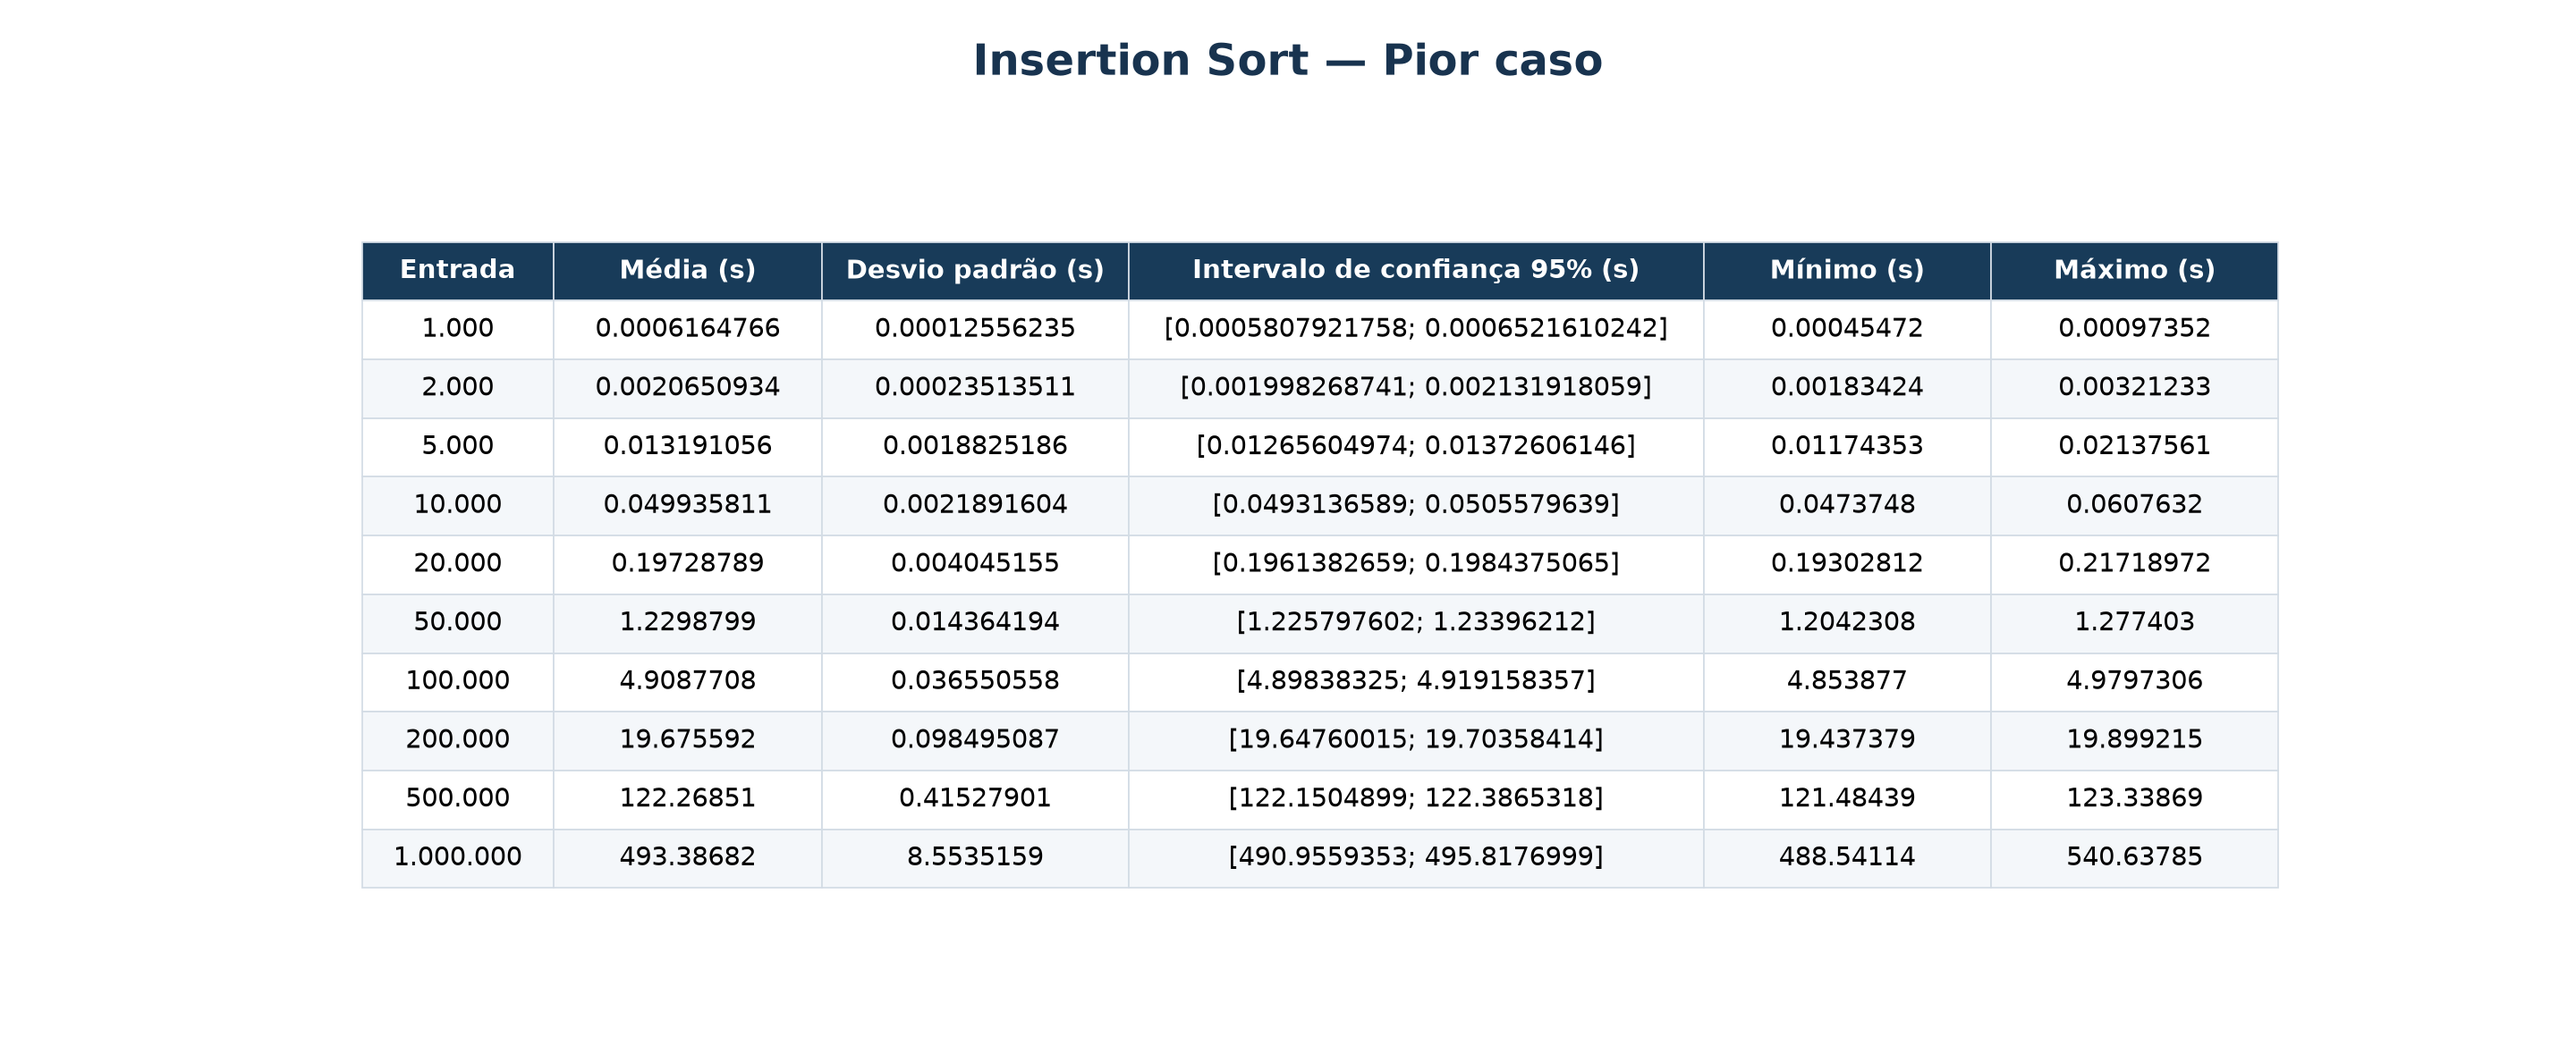
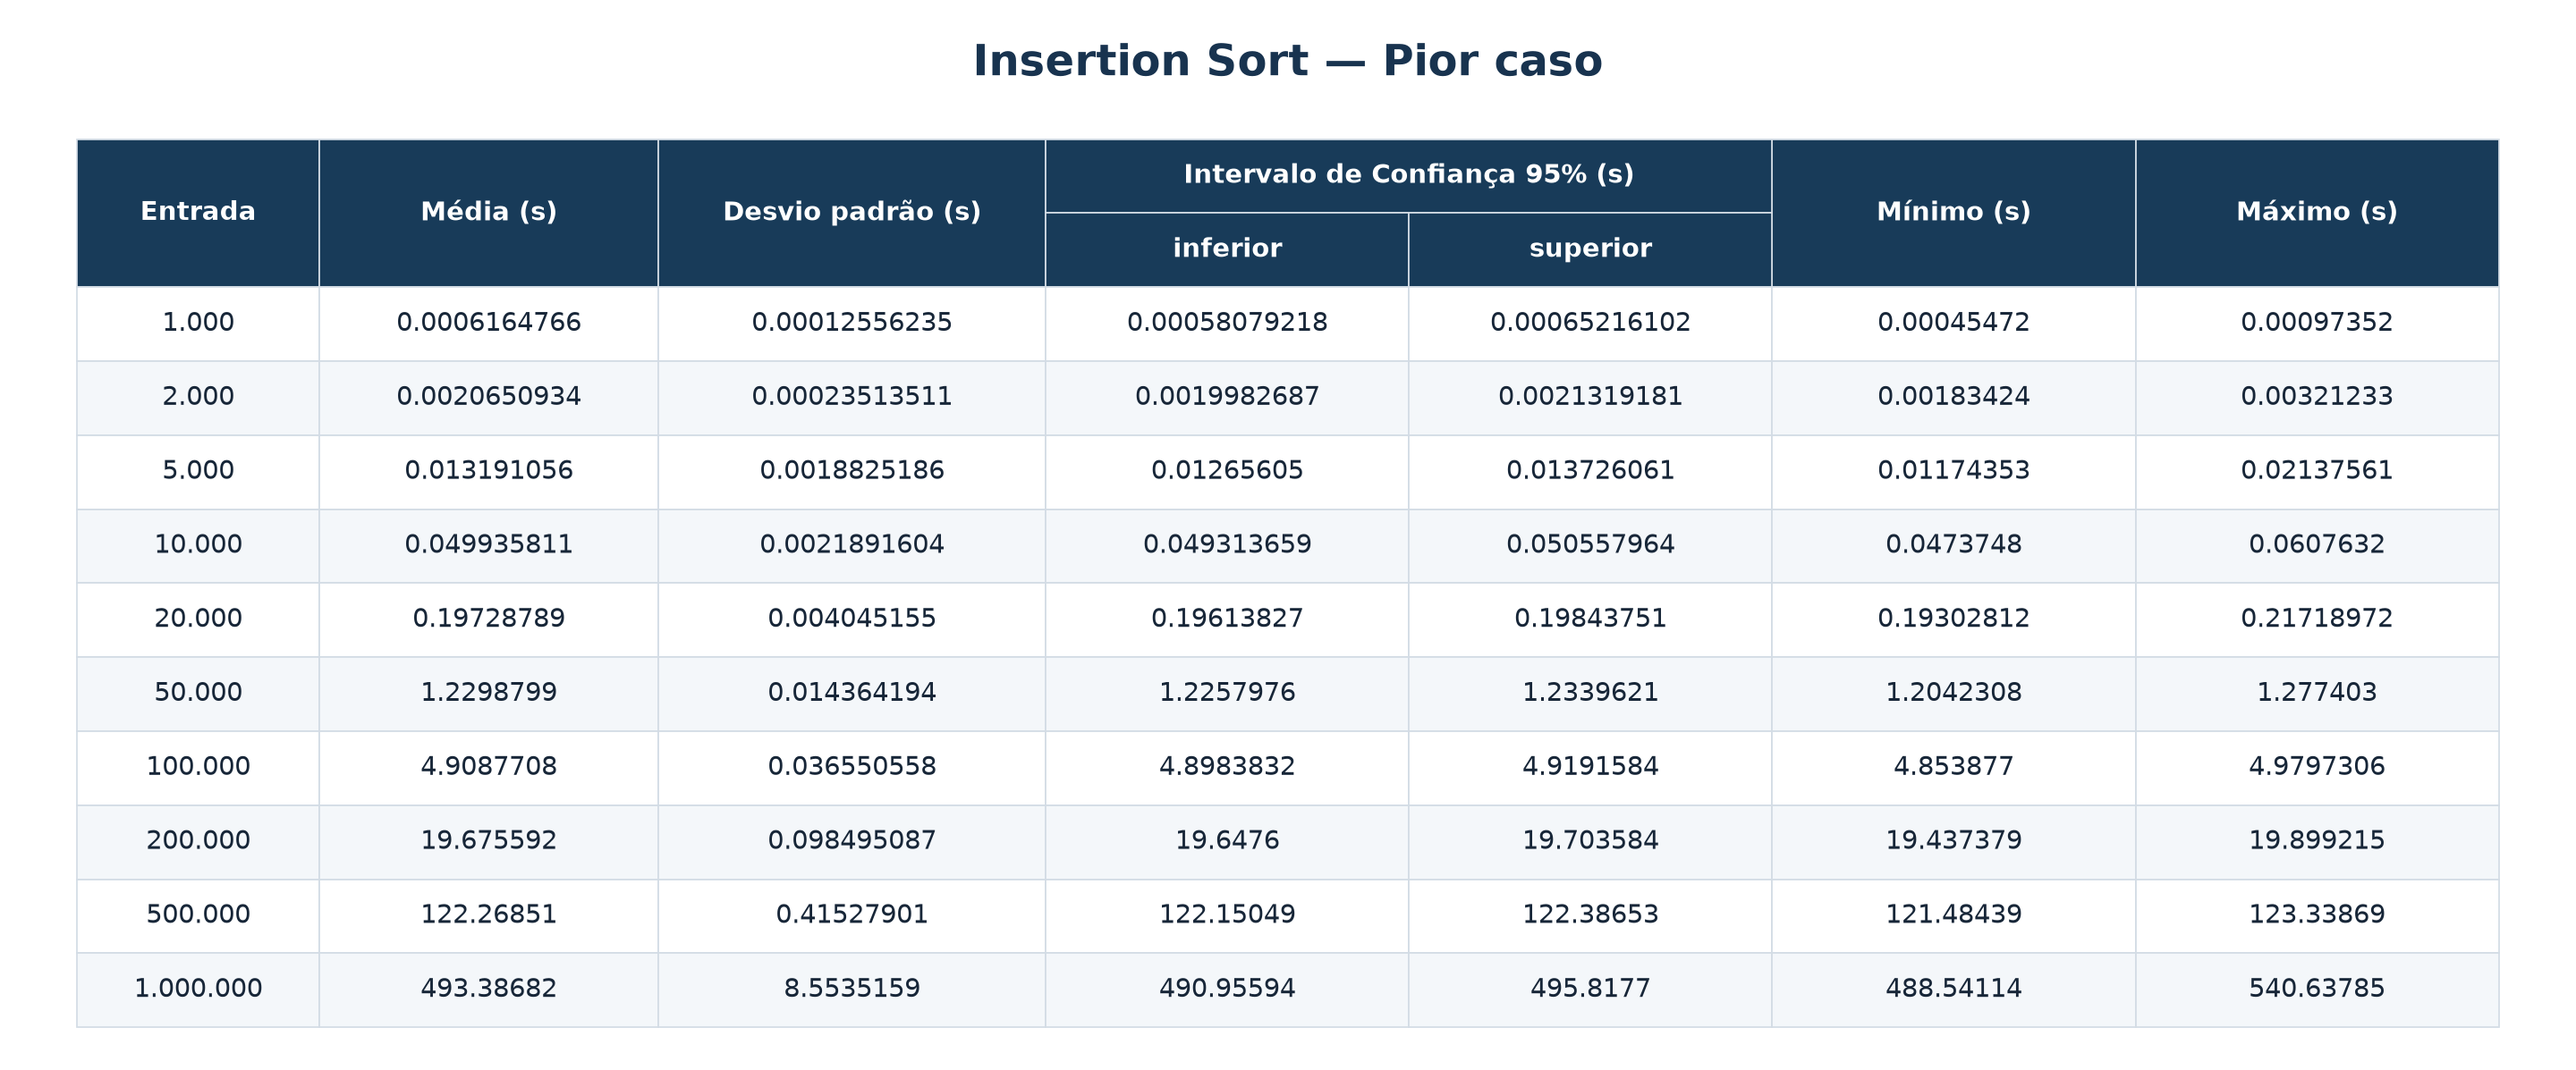
Melhora a formatação do Intervalo de Confiança  nas tabelas

diff --git a/src/table.py b/src/table.py
@@ -10,6 +10,7 @@ import sys
 import matplotlib
 matplotlib.use("Agg")
 import matplotlib.pyplot as plt
+from matplotlib.patches import Rectangle
 import pandas as pd
 from scipy.stats import t
 
@@ -22,6 +23,12 @@ CENARIOS = {
     "worst_case": "Pior caso",
 }
 MEDICOES_ESPERADAS = 50
+TITULO_IC = "Intervalo de Confiança 95% (s)"
+CABECALHOS = [
+    ("Entrada", ""), ("Média (s)", ""), ("Desvio padrão (s)", ""),
+    (TITULO_IC, "inferior"), (TITULO_IC, "superior"),
+    ("Mínimo (s)", ""), ("Máximo (s)", ""),
+]
 
 
 def ler_medicoes(arquivo):
@@ -70,13 +77,8 @@ def calcular_estatisticas(dados):
         * tabela["Desvio"]
         / tabela["Medicoes"].pow(0.5)
     )
-    limite_inferior = tabela["Media"] - margem
-    limite_superior = tabela["Media"] + margem
-    tabela["Intervalo de confiança 95% (s)"] = [
-        f"[{inferior:.10g}; {superior:.10g}]"
-        if pd.notna(inferior) and pd.notna(superior) else "—"
-        for inferior, superior in zip(limite_inferior, limite_superior)
-    ]
+    tabela["inferior"] = tabela["Media"] - margem
+    tabela["superior"] = tabela["Media"] + margem
     tabela = tabela.rename(columns={
         "n": "Entrada",
         "Media": "Média (s)",
@@ -86,53 +88,73 @@ def calcular_estatisticas(dados):
     })
     return tabela[[
         "Entrada", "Média (s)", "Desvio padrão (s)",
-        "Intervalo de confiança 95% (s)", "Mínimo (s)", "Máximo (s)",
+        "inferior", "superior", "Mínimo (s)", "Máximo (s)",
     ]]
 
 
 def salvar_imagem(tabela, arquivo, nome_algoritmo, nome_cenario):
-    """Renderiza as estatisticas em uma imagem PNG legivel."""
-    titulos = [
-        "Entrada", "Média (s)", "Desvio padrão (s)",
-        "Intervalo de confiança 95% (s)", "Mínimo (s)", "Máximo (s)",
-    ]
+    """Renderiza um cabeçalho de dois níveis, agrupando os limites do IC."""
     linhas = []
     for _, linha in tabela.iterrows():
         linhas.append([
             f"{int(linha['Entrada']):,}".replace(",", "."),
             *(
-                linha[coluna] if isinstance(linha[coluna], str)
-                else "—" if pd.isna(linha[coluna]) else f"{linha[coluna]:.8g}"
+                "—" if pd.isna(linha[coluna]) else f"{linha[coluna]:.8g}"
                 for coluna in tabela.columns[1:]
             ),
         ])
 
-    altura = max(4.8, 1.65 + 0.45 * (len(linhas) + 1))
+    altura = max(4.8, 1.25 + 0.45 * (len(linhas) + 2))
     figura, eixo = plt.subplots(figsize=(16, altura))
+    figura.subplots_adjust(left=0.03, right=0.97, bottom=0.04, top=0.87)
     eixo.axis("off")
     figura.text(
         0.5, 0.94, f"{nome_algoritmo} — {nome_cenario}",
         ha="center", va="center", fontsize=19, fontweight="bold", color="#18334f",
     )
-    imagem = eixo.table(
-        cellText=linhas,
-        colLabels=titulos,
-        cellLoc="center",
-        colLoc="center",
-        colWidths=[0.10, 0.14, 0.16, 0.30, 0.15, 0.15],
-        bbox=[0.02, 0.07, 0.96, 0.79],
+    larguras = [0.10, 0.14, 0.16, 0.15, 0.15, 0.15, 0.15]
+    posicoes = [0]
+    for largura in larguras:
+        posicoes.append(posicoes[-1] + largura)
+    altura_linha = 1 / (len(linhas) + 2)
+
+    def desenhar_celula(coluna, y, largura, altura, texto, cor, cabecalho=False):
+        x = posicoes[coluna]
+        eixo.add_patch(Rectangle(
+            (x, y), largura, altura,
+            facecolor=cor, edgecolor="#d3dce5", linewidth=0.7,
+            transform=eixo.transAxes, clip_on=False,
+        ))
+        eixo.text(
+            x + largura / 2, y + altura / 2, texto,
+            ha="center", va="center", fontsize=11.5,
+            color="white" if cabecalho else "#172638",
+            fontweight="bold" if cabecalho else "normal",
+            transform=eixo.transAxes,
+        )
+
+    # Os outros títulos ocupam as duas linhas de cabeçalho.
+    for coluna in (0, 1, 2, 5, 6):
+        desenhar_celula(
+            coluna, 1 - 2 * altura_linha, larguras[coluna], 2 * altura_linha,
+            CABECALHOS[coluna][0], "#183b59", cabecalho=True,
+        )
+    desenhar_celula(
+        3, 1 - altura_linha, larguras[3] + larguras[4], altura_linha,
+        TITULO_IC, "#183b59", cabecalho=True,
     )
-    imagem.auto_set_font_size(False)
-    imagem.set_fontsize(11.5)
-    for (indice_linha, _), celula in imagem.get_celld().items():
-        celula.set_edgecolor("#d3dce5")
-        celula.set_linewidth(0.7)
-        if indice_linha == 0:
-            celula.set_facecolor("#183b59")
-            celula.get_text().set_color("white")
-            celula.get_text().set_fontweight("bold")
-        else:
-            celula.set_facecolor("#ffffff" if indice_linha % 2 else "#f4f7fa")
+    for coluna in (3, 4):
+        desenhar_celula(
+            coluna, 1 - 2 * altura_linha, larguras[coluna], altura_linha,
+            CABECALHOS[coluna][1], "#183b59", cabecalho=True,
+        )
+    for indice, linha in enumerate(linhas):
+        cor = "#ffffff" if indice % 2 == 0 else "#f4f7fa"
+        for coluna, texto in enumerate(linha):
+            desenhar_celula(
+                coluna, 1 - (indice + 3) * altura_linha,
+                larguras[coluna], altura_linha, texto, cor,
+            )
     figura.savefig(arquivo, dpi=180, facecolor="white")
     plt.close(figura)
 
@@ -167,7 +189,9 @@ def gerar_tabelas(pasta_dados=RAIZ / "data", pasta_saida=RAIZ / "data" / "tables
 
             pasta_cenario = pasta_saida / algoritmo / cenario.removesuffix("_case")
             pasta_cenario.mkdir(parents=True, exist_ok=True)
-            tabela.to_csv(
+            tabela_csv = tabela.copy()
+            tabela_csv.columns = pd.MultiIndex.from_tuples(CABECALHOS)
+            tabela_csv.to_csv(
                 pasta_cenario / "tabela.csv",
                 index=False,
                 float_format="%.10g",

diff --git a/src/graphics.py b/src/graphics.py
@@ -28,29 +28,26 @@ CENARIOS = {
 
 def ler_tabela(arquivo):
     """Lê médias e os dois limites do IC de 95% do CSV da tabela."""
-    tabela = pd.read_csv(arquivo).set_index("Entrada")
-    colunas = {"Média (s)", "Intervalo de confiança 95% (s)"}
+    tabela = pd.read_csv(arquivo, header=[0, 1])
+    tabela.columns = [
+        subtitulo if titulo == "Intervalo de Confiança 95% (s)" else titulo
+        for titulo, subtitulo in tabela.columns
+    ]
+    tabela = tabela.rename(columns={
+        "inferior": "Limite inferior", "superior": "Limite superior",
+    }).set_index("Entrada")
+    colunas = {"Média (s)", "Limite inferior", "Limite superior"}
     if not colunas.issubset(tabela.columns):
         raise ValueError(f"Colunas necessárias ausentes em {arquivo}.")
     if tabela.index.has_duplicates:
         raise ValueError(f"Entradas repetidas em {arquivo}.")
 
-    limites = []
     for entrada, linha in tabela.iterrows():
-        try:
-            inferior, superior = (
-                float(valor.strip())
-                for valor in linha["Intervalo de confiança 95% (s)"].strip("[]").split(";")
-            )
-        except (AttributeError, TypeError, ValueError) as erro:
-            raise ValueError(f"IC de 95% inválido em {arquivo}, entrada {entrada}.") from erro
+        inferior = linha["Limite inferior"]
+        superior = linha["Limite superior"]
         media = linha["Média (s)"]
         if not 0 < inferior <= media <= superior:
             raise ValueError(f"IC de 95% inconsistente em {arquivo}, entrada {entrada}.")
-        limites.append((inferior, superior))
-
-    tabela["Limite inferior"] = [par[0] for par in limites]
-    tabela["Limite superior"] = [par[1] for par in limites]
     return tabela
 
 
